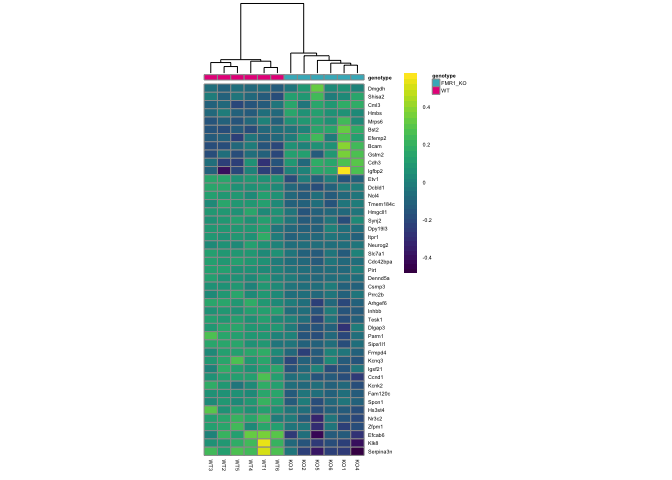
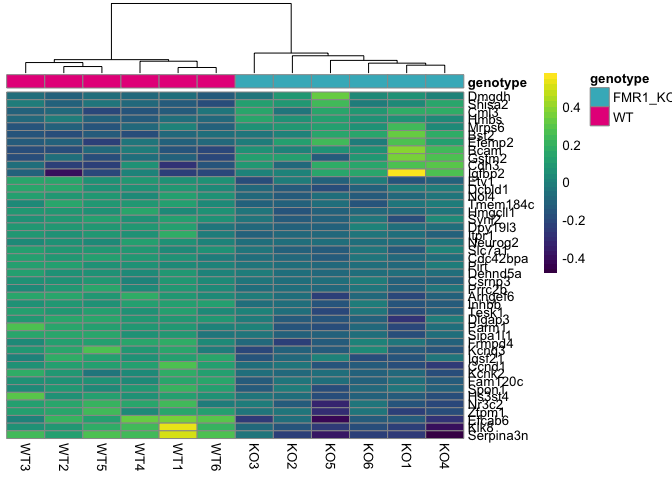
heatmap

diff --git a/scripts/05_Ceolin.md b/scripts/05_Ceolin.md
@@ -286,11 +286,11 @@ and allows us to visualize patterns of expression with gene names.
              annotation_col=df, 
              annotation_colors = ann_colors,
              treeheight_row = 0, treeheight_col = 50,
-             fontsize = 4, 
+             #fontsize = 4, 
              #width=4.5, height=3,
              border_color = "grey60" ,
              color = viridis(40),
-             cellwidth = 10, 
+             #cellwidth = 10, 
              clustering_distance_cols="correlation" ,
              breaks=myBreaks,
              clustering_method="average"
